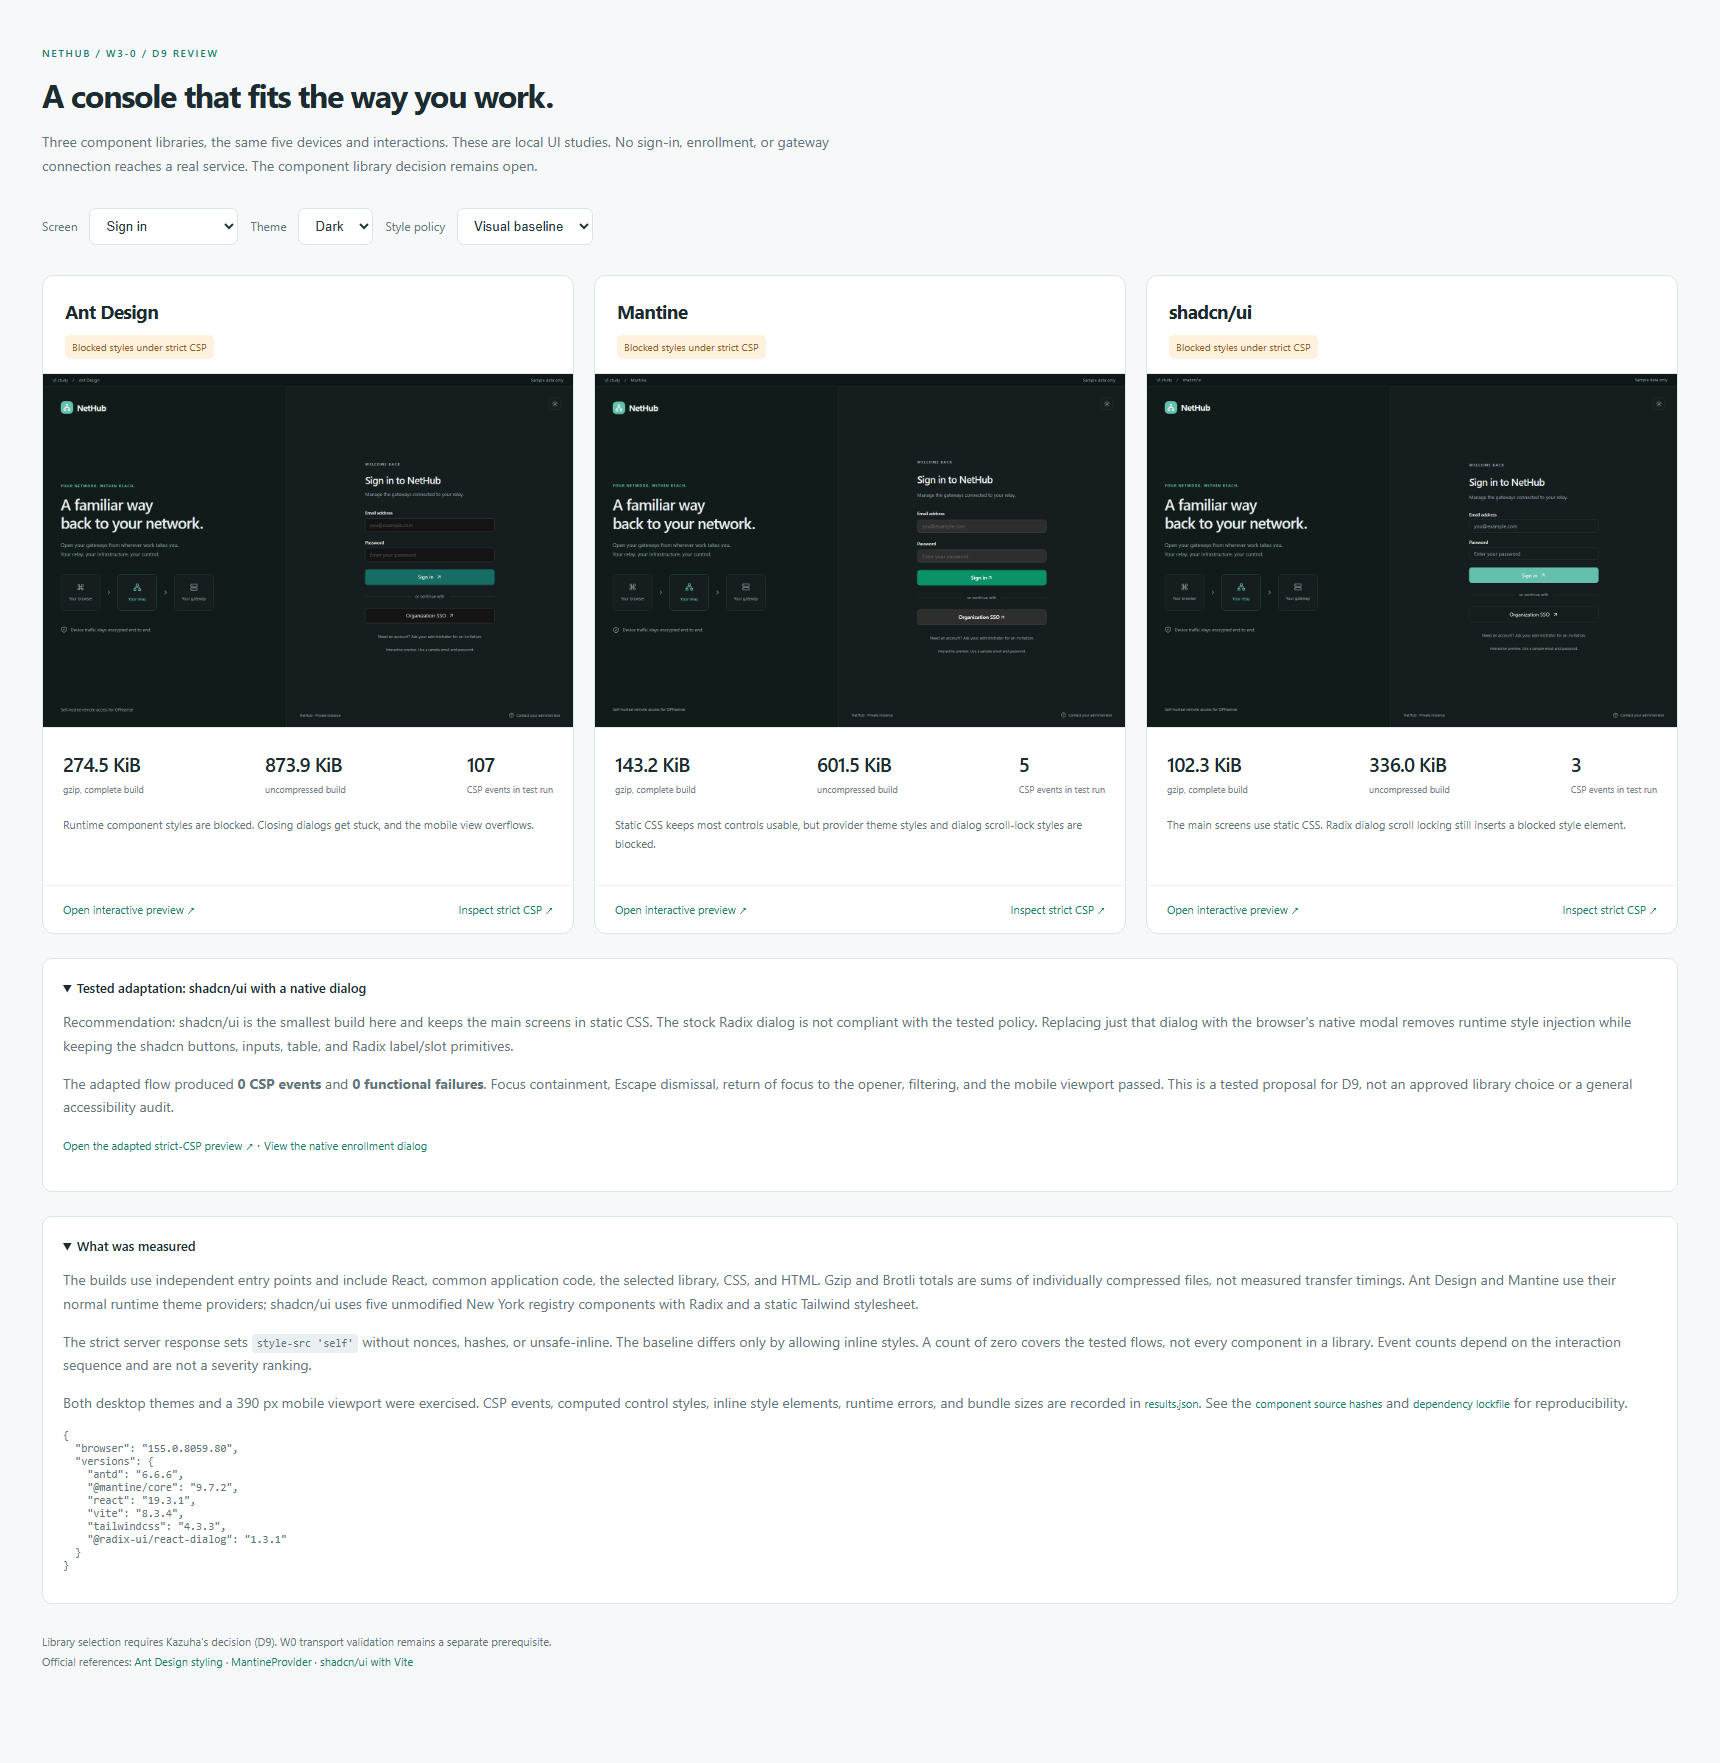
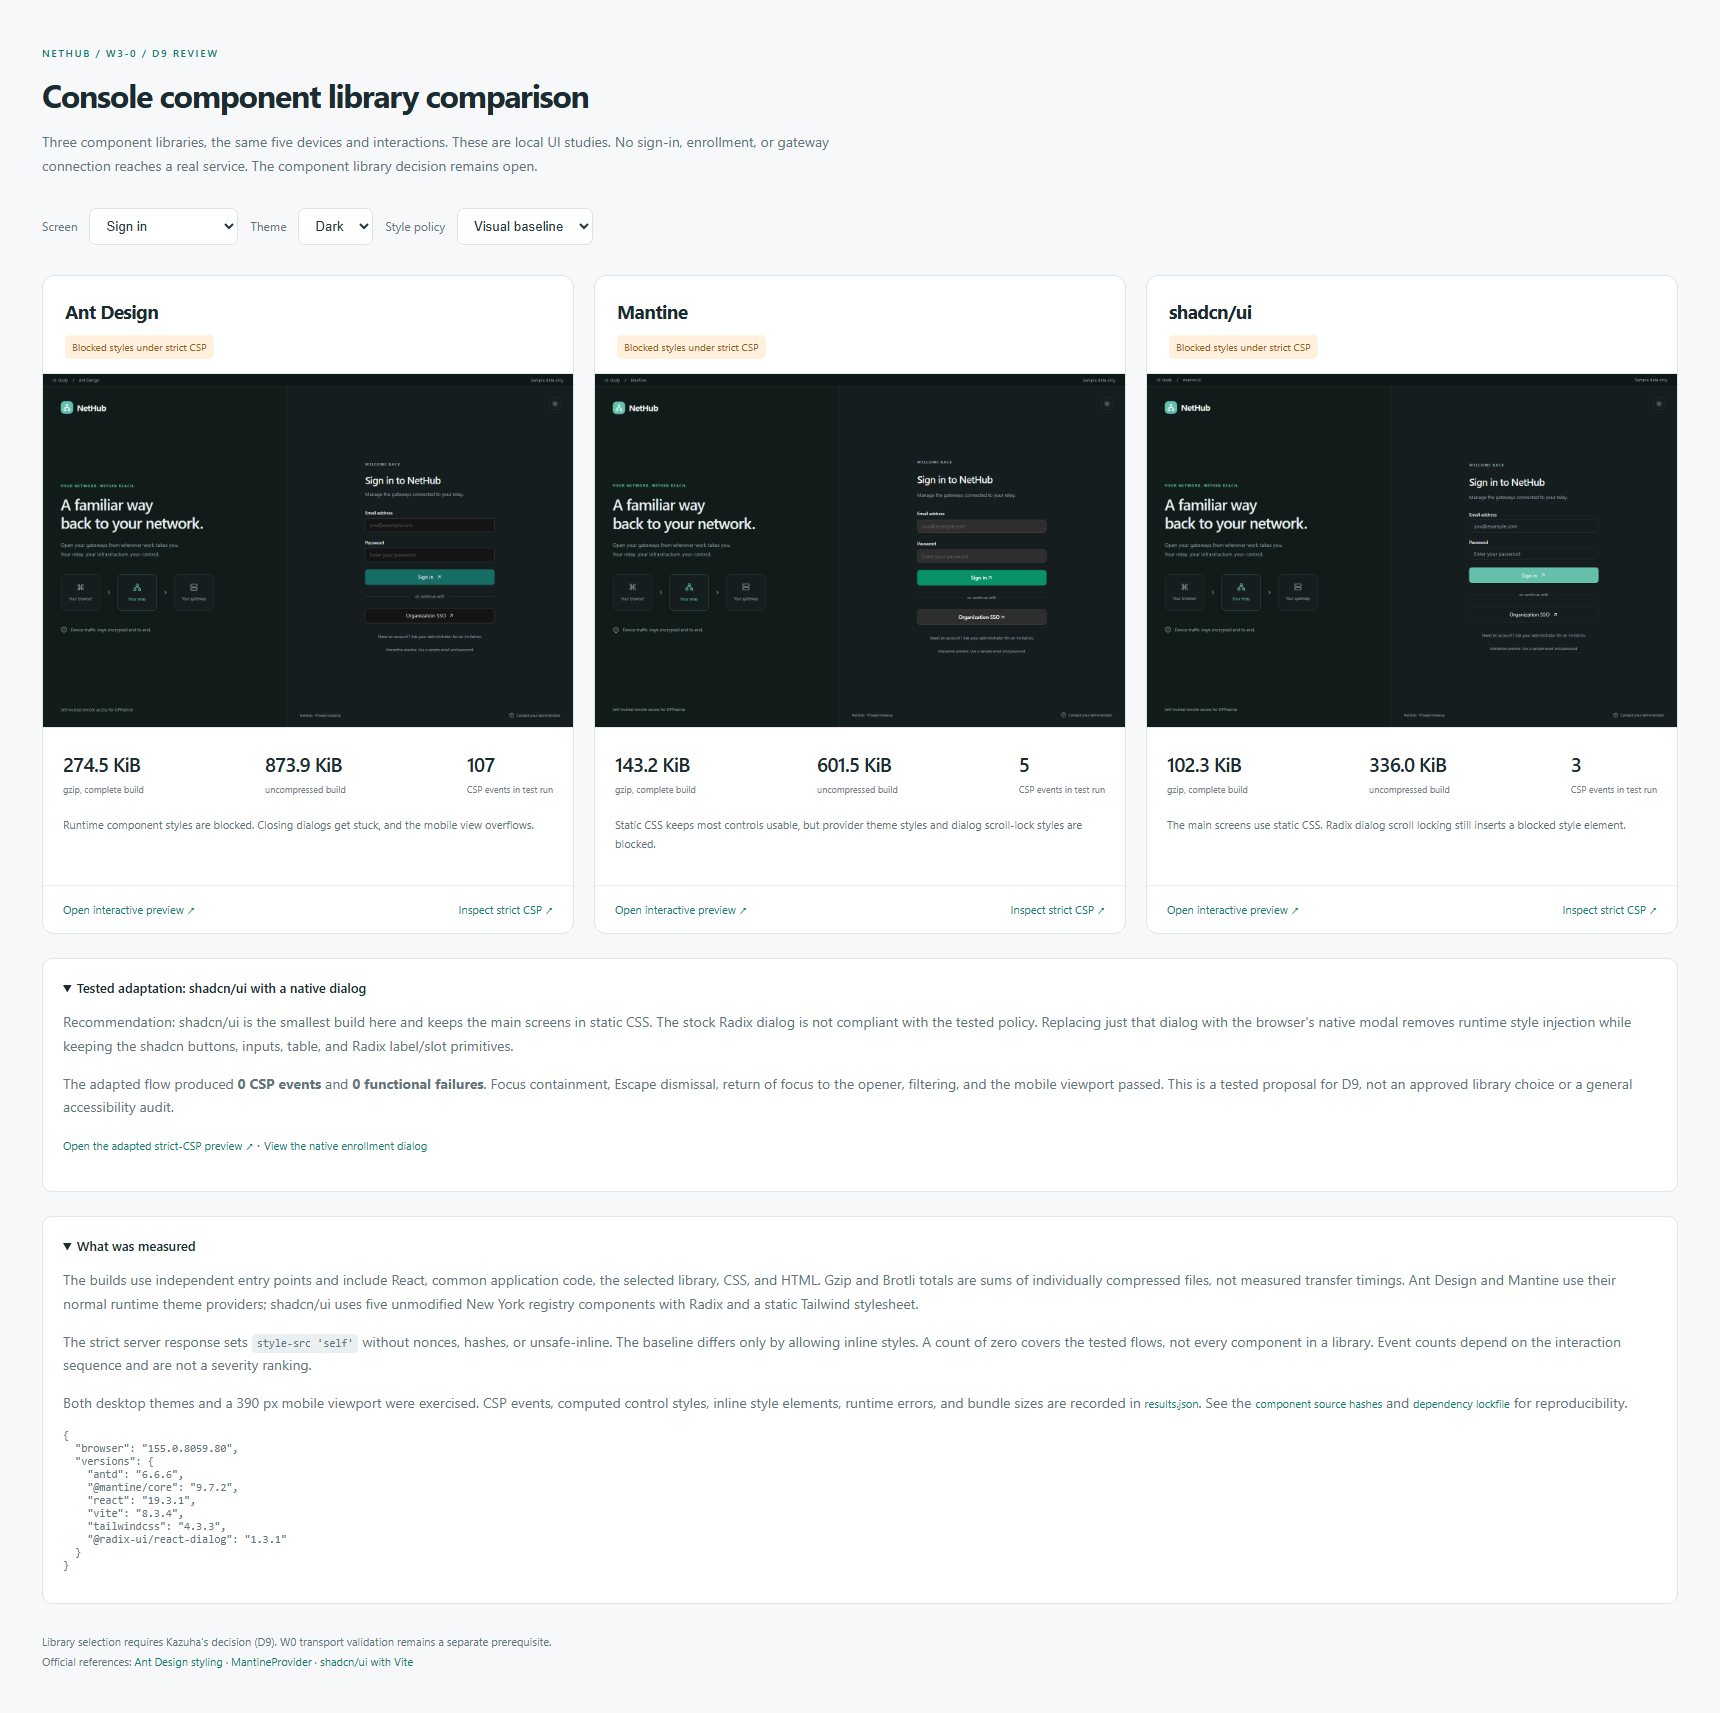
docs: record verified VM and loopback preflight evidence

diff --git a/docs/HANDOFF_PROMPT.md b/docs/HANDOFF_PROMPT.md
@@ -22,7 +22,8 @@
 - P0-4/P0-5: [PR #1](https://github.com/KazuhaHub/nethub/pull/1) merged with Kazuha's approval on 2026-10-17. PR pass/fail/pass evidence is linked there; the [main run](https://github.com/KazuhaHub/nethub/actions/runs/39026266818) also passed. The CLI workflow scope issue is resolved.
 - P0-6 受平台限制：查询 `main` 生效规则时，GitHub API 返回 403，提示当前私有仓库需升级套餐或公开才能启用。保持私有，不更改可见性；分支保护尚未完成。
 - W3-0: three UI samples, light/dark screenshots, bundle measurements, and strict-CSP interaction tests are complete. See [the comparison](ui-study/README.md). Default integrations all inject blocked styles; the shadcn/native-dialog adaptation passed the tested flows without CSP events. D9 still requires a decision. Sample source stays outside the product repository.
-- D3: Kazuha authorized self-provisioned VM testing. The local execution host has 4 GiB RAM and cannot accommodate the installer; [PR #2](https://github.com/KazuhaHub/nethub/pull/2) is testing a restricted guest on an ephemeral hosted runner. Public relay, DNS, and carrier-network resources remain unconfirmed; W0 is not accepted.
+- D3: Kazuha authorized self-provisioned VM testing. The local execution host has 4 GiB RAM and cannot accommodate the installer; [PR #2](https://github.com/KazuhaHub/nethub/pull/2) has [verified a signed, isolated live-image boot](https://github.com/KazuhaHub/nethub/actions/runs/39026961946) on an ephemeral hosted runner. The guest reached its login prompt in 56 seconds, then was terminated. Public relay, DNS, and carrier-network resources remain unconfirmed; W0 is not accepted.
+- Additional local preflight: real frp 0.71.0 binaries passed both stock configuration checks and eight loopback transport/hook checks with the unmodified probe. Ping denial interrupted the local session in 9.55 seconds; NewUserConn deny and NewProxy deny/500 blocked access as expected. This does not verify OPNsense, NAT, public IP reporting, or carrier networks. The harness and results remain in the local `nethub-w0-local` directory.
 - 这个项目 2026-09-17 暂停过，2026-10-16 恢复。暂停期间组织里的共享 Go 模块 `KazuhaHub/authcore` 已经做完（v0.6.1）。
 
 ### 第一步：按这个顺序读

diff --git a/docs/PLAN.md b/docs/PLAN.md
@@ -1960,4 +1960,4 @@ git log --format='%an <%ae>%n%cn <%ce>%n%B' origin/main..HEAD | grep -niE 'co-au
   - 日期：2026-10-17
   - 影响：P0-2、W7 公开前审查。内部文档已经进入历史，D12 仍需另行决定。
 
-D3 update (2026-10-17): Kazuha delegated isolated VM provisioning and authorized the operations in this chat. The local 4 GiB execution host is too small for the guest; PR #2 is testing a restricted, disposable live-image boot on a standard hosted runner. Public relay, DNS, and carrier-network availability remain unconfirmed. This is preflight work, not W0 acceptance.
+D3 update (2026-10-17): Kazuha delegated isolated VM provisioning and authorized the operations in this chat. The local 4 GiB execution host is too small for the guest; PR #2 has verified a signed, restricted live-image boot on a standard hosted runner: [evidence](https://github.com/KazuhaHub/nethub/actions/runs/39026961946). The guest reached its login prompt in 56 seconds and was terminated; it has not been installed or updated for W0. Public relay, DNS, and carrier-network availability remain unconfirmed. This is preflight work, not W0 acceptance.
